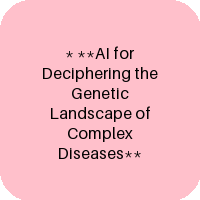
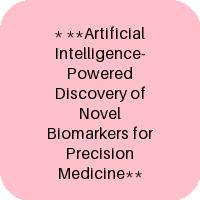
Update C++ learning topics in README

diff --git a/README.md b/README.md
@@ -15,13 +15,13 @@
 
 ### Project Ideas (AI generated; updates automatically everyday)
 <!--C++_TOPICS-->
-- **AI in Diagnosis:**
+- **AI in Surgery:**
 - 
-- * **AI-Driven Personalized Cancer Diagnosis and Treatment Prediction**
+- * **Automated Tissue Classification for Surgical Orientation**
 - 
 - **AI in Biology:**
 - 
-- * **AI for Deciphering the Genetic Landscape of Complex Diseases**
+- * **Artificial Intelligence-Powered Discovery of Novel Biomarkers for Precision Medicine**
 <!--END_C++_TOPICS-->
 
 
